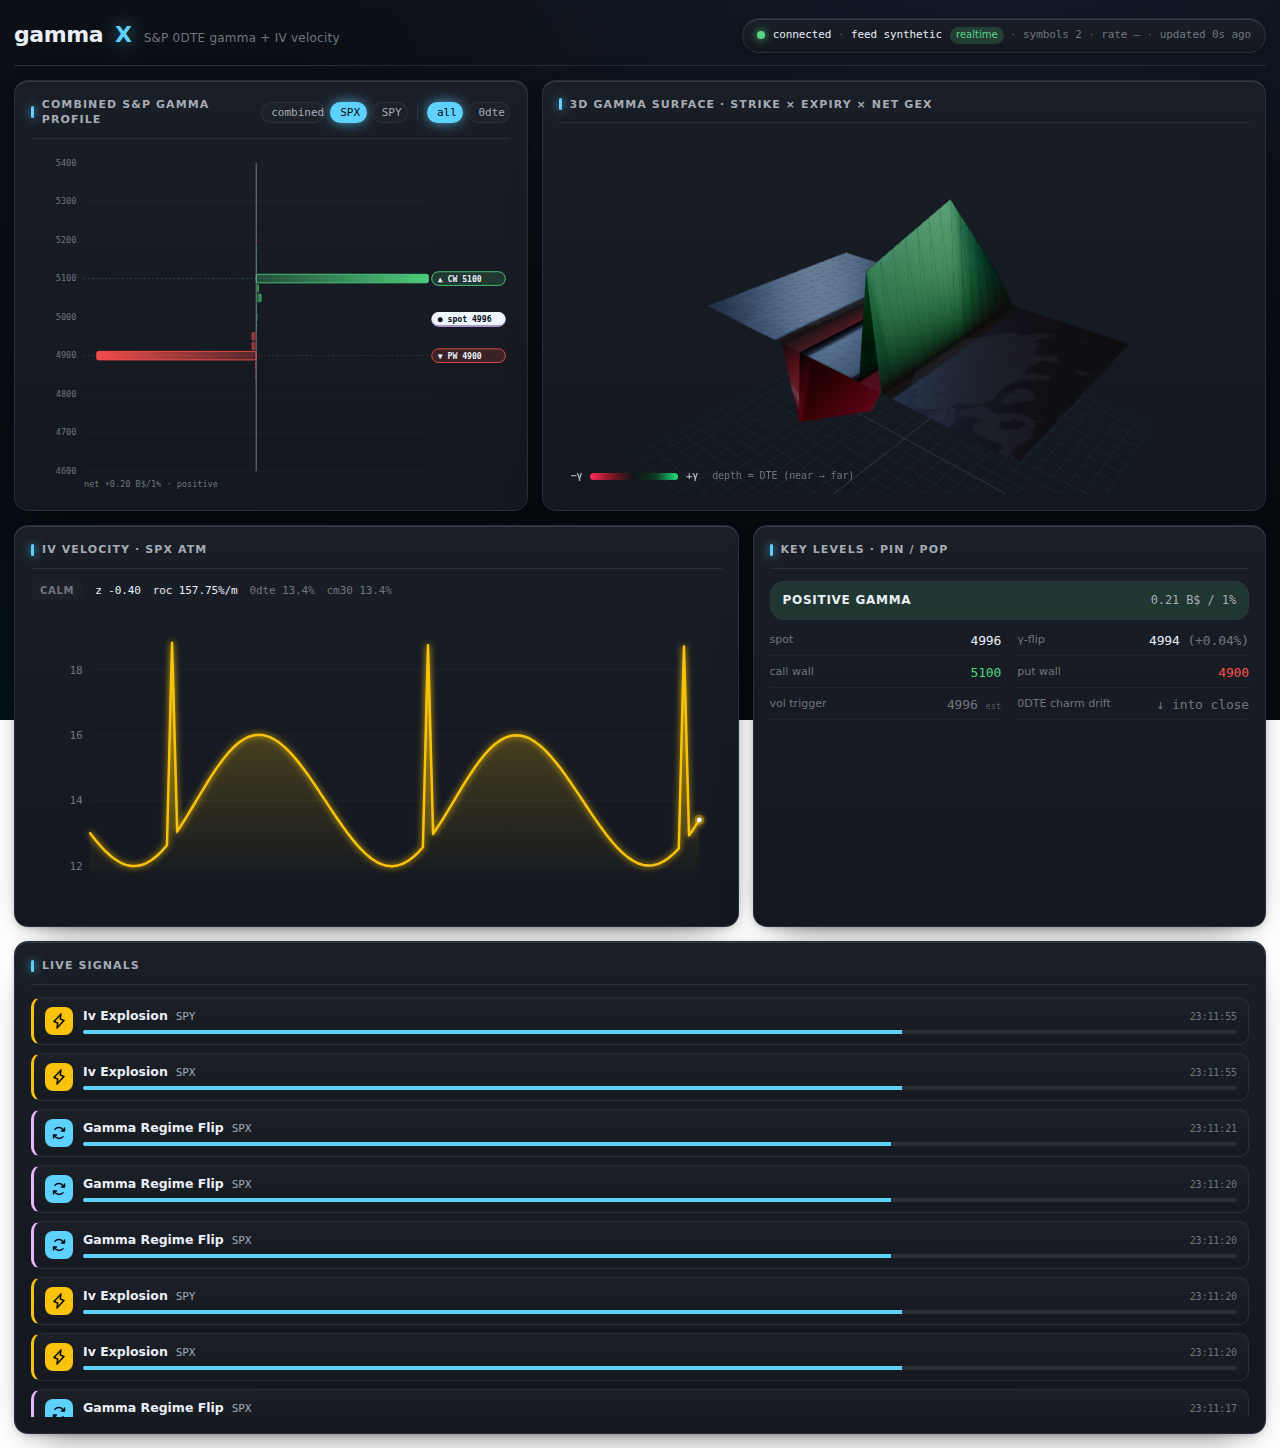
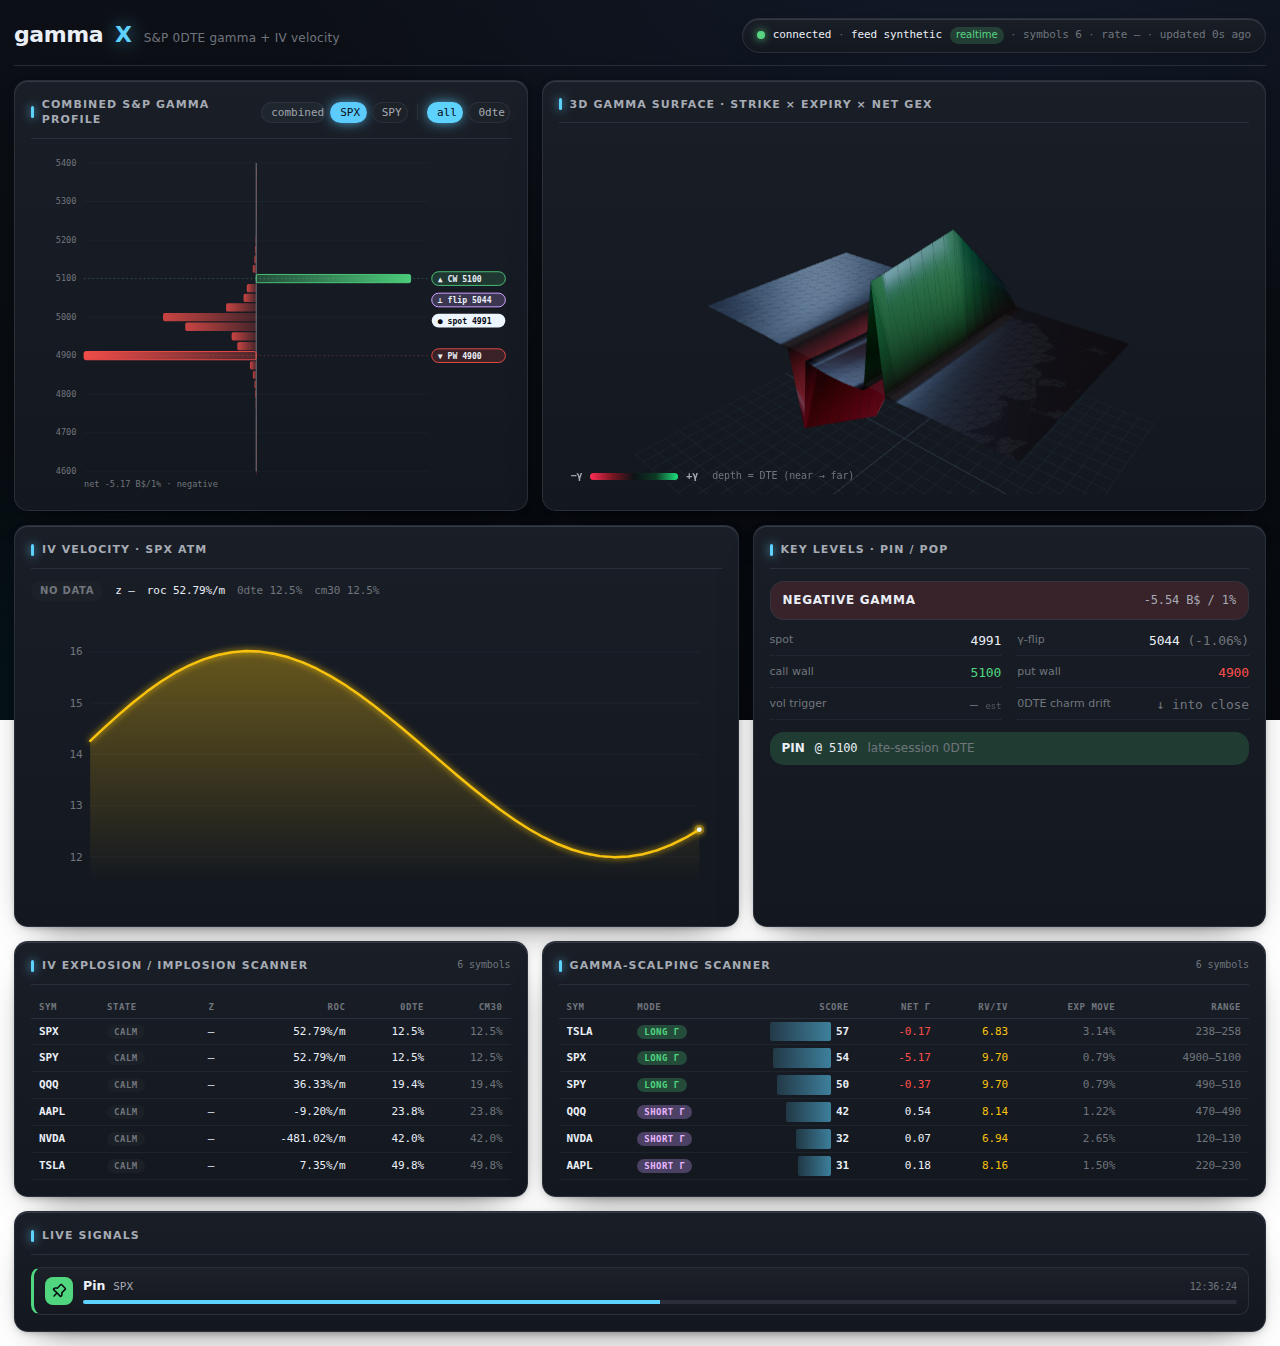
feat(web): IV explosion/implosion + gamma-scalping scanner panels
Two new dashboard panels ranking the watchlist off the engine WS:
- IvScanner: per-symbol IV velocity (z-score, ROC, 0DTE/CM30 IV) with
  explosion/implosion/calm badges.
- GammaScalpScanner: per-symbol scalp mode (long γ / short γ / neutral) with a
  score bar, net dealer gamma, realized-vs-implied ratio, expected move, and the
  wall range.

Wired into the store (iv_scan / gamma_scalp messages) and the page grid. e2e
asserts both scanner tables populate; verified on a 6-ticker synthetic watchlist
(SPX/SPY/QQQ/AAPL/NVDA/TSLA) — long-gamma vs short-gamma split matches each
ticker's dealer-gamma regime. svelte-autofixer clean; pnpm check green on Node 24.

Claude-Session: https://claude.ai/code/session_01EZJQeQHB2Ef85NUzpusLn4

diff --git a/apps/web/src/lib/components/GammaScalpScanner.svelte b/apps/web/src/lib/components/GammaScalpScanner.svelte
@@ -1,0 +1,152 @@
+<script lang="ts">
+	import type { GammaScalpMode, GammaScalpScannerState } from '@gammax/contracts';
+
+	let { scan }: { scan: GammaScalpScannerState | null } = $props();
+
+	const rows = $derived(scan?.rows ?? []);
+
+	const MODE_LABEL: Record<GammaScalpMode, string> = {
+		long_gamma: 'long γ',
+		short_gamma: 'short γ',
+		neutral: '—'
+	};
+
+	function bn(v: number): string {
+		return `${(v / 1e9).toFixed(2)}`;
+	}
+	function ratio(v: number | null): string {
+		return v == null ? '—' : v.toFixed(2);
+	}
+	function pct(v: number | null): string {
+		return v == null ? '—' : `${v.toFixed(2)}%`;
+	}
+	function range(lo: number | null, hi: number | null): string {
+		return lo == null || hi == null ? '—' : `${lo.toFixed(0)}–${hi.toFixed(0)}`;
+	}
+</script>
+
+<div class="scanner">
+	{#if rows.length === 0}
+		<p class="empty">scoring gamma-scalp conditions…</p>
+	{:else}
+		<table class="mono">
+			<thead>
+				<tr>
+					<th>sym</th>
+					<th>mode</th>
+					<th class="r">score</th>
+					<th class="r">net γ</th>
+					<th class="r">rv/iv</th>
+					<th class="r">exp move</th>
+					<th class="r">range</th>
+				</tr>
+			</thead>
+			<tbody>
+				{#each rows as r (r.symbol)}
+					<tr>
+						<td class="sym">{r.symbol}</td>
+						<td><span class="badge {r.mode}">{MODE_LABEL[r.mode]}</span></td>
+						<td class="r score">
+							<span class="bar" style="--w:{r.score}%"></span>
+							<span class="val">{r.score}</span>
+						</td>
+						<td class="r" class:neg={r.netGex < 0}>{bn(r.netGex)}</td>
+						<td class="r" class:hot={(r.rvIvRatio ?? 0) > 1}>{ratio(r.rvIvRatio)}</td>
+						<td class="r dim">{pct(r.expectedMovePct)}</td>
+						<td class="r dim">{range(r.rangeLow, r.rangeHigh)}</td>
+					</tr>
+				{/each}
+			</tbody>
+		</table>
+	{/if}
+</div>
+
+<style>
+	.scanner {
+		inline-size: 100%;
+		overflow-x: auto;
+	}
+	table {
+		inline-size: 100%;
+		border-collapse: collapse;
+		font-size: 11px;
+	}
+	th {
+		text-align: left;
+		font-weight: 600;
+		color: var(--ink-faint);
+		text-transform: uppercase;
+		letter-spacing: 0.06em;
+		font-size: 9px;
+		padding: 4px 8px;
+		border-block-end: 1px solid var(--border);
+	}
+	td {
+		padding: 5px 8px;
+		border-block-end: 1px solid color-mix(in oklch, var(--border), transparent 50%);
+	}
+	.r {
+		text-align: right;
+	}
+	.sym {
+		font-weight: 700;
+		color: var(--ink);
+	}
+	.dim {
+		color: var(--ink-faint);
+	}
+	.neg {
+		color: var(--put);
+	}
+	.hot {
+		color: var(--warn);
+	}
+	.score {
+		position: relative;
+		min-inline-size: 64px;
+	}
+	.score .bar {
+		position: absolute;
+		inset-block: 3px;
+		inset-inline-end: 26px;
+		inline-size: var(--w);
+		max-inline-size: calc(100% - 28px);
+		background: linear-gradient(
+			90deg,
+			color-mix(in oklch, var(--accent), transparent 70%),
+			var(--accent)
+		);
+		border-radius: 2px;
+		opacity: 0.55;
+	}
+	.score .val {
+		position: relative;
+		font-weight: 700;
+	}
+	.badge {
+		text-transform: uppercase;
+		letter-spacing: 0.05em;
+		font-size: 9px;
+		font-weight: 700;
+		padding-block: 2px;
+		padding-inline: 7px;
+		border-radius: 999px;
+	}
+	.badge.long_gamma {
+		background: color-mix(in oklch, var(--call), transparent 74%);
+		color: var(--call);
+	}
+	.badge.short_gamma {
+		background: color-mix(in oklch, var(--flip), transparent 74%);
+		color: var(--flip);
+	}
+	.badge.neutral {
+		background: oklch(0.26 0.014 262 / 0.6);
+		color: var(--ink-faint);
+	}
+	.empty {
+		color: var(--ink-faint);
+		padding-block: 28px;
+		text-align: center;
+	}
+</style>

diff --git a/apps/web/src/lib/components/IvScanner.svelte b/apps/web/src/lib/components/IvScanner.svelte
@@ -1,0 +1,115 @@
+<script lang="ts">
+	import type { IvScannerState } from '@gammax/contracts';
+
+	let { scan }: { scan: IvScannerState | null } = $props();
+
+	const rows = $derived(scan?.rows ?? []);
+
+	function pct(v: number | null): string {
+		return v == null ? '—' : `${(v * 100).toFixed(1)}%`;
+	}
+	function num(v: number | null, dp = 2): string {
+		return v == null ? '—' : v.toFixed(dp);
+	}
+</script>
+
+<div class="scanner">
+	{#if rows.length === 0}
+		<p class="empty">collecting IV velocity…</p>
+	{:else}
+		<table class="mono">
+			<thead>
+				<tr>
+					<th>sym</th>
+					<th>state</th>
+					<th class="r">z</th>
+					<th class="r">roc</th>
+					<th class="r">0dte</th>
+					<th class="r">cm30</th>
+				</tr>
+			</thead>
+			<tbody>
+				{#each rows as r (r.symbol)}
+					<tr>
+						<td class="sym">{r.symbol}</td>
+						<td><span class="badge {r.state}">{r.state}</span></td>
+						<td class="r z" class:up={(r.zScore ?? 0) > 0} class:down={(r.zScore ?? 0) < 0}>
+							{num(r.zScore)}
+						</td>
+						<td class="r">{r.rocPctPerMin == null ? '—' : `${num(r.rocPctPerMin)}%/m`}</td>
+						<td class="r">{pct(r.atmIv0dte)}</td>
+						<td class="r dim">{pct(r.atmIvCm30)}</td>
+					</tr>
+				{/each}
+			</tbody>
+		</table>
+	{/if}
+</div>
+
+<style>
+	.scanner {
+		inline-size: 100%;
+		overflow-x: auto;
+	}
+	table {
+		inline-size: 100%;
+		border-collapse: collapse;
+		font-size: 11px;
+	}
+	th {
+		text-align: left;
+		font-weight: 600;
+		color: var(--ink-faint);
+		text-transform: uppercase;
+		letter-spacing: 0.06em;
+		font-size: 9px;
+		padding: 4px 8px;
+		border-block-end: 1px solid var(--border);
+	}
+	td {
+		padding: 5px 8px;
+		border-block-end: 1px solid color-mix(in oklch, var(--border), transparent 50%);
+	}
+	.r {
+		text-align: right;
+	}
+	.sym {
+		font-weight: 700;
+		color: var(--ink);
+	}
+	.dim {
+		color: var(--ink-faint);
+	}
+	.z.up {
+		color: var(--warn);
+	}
+	.z.down {
+		color: var(--accent);
+	}
+	.badge {
+		text-transform: uppercase;
+		letter-spacing: 0.06em;
+		font-size: 9px;
+		font-weight: 700;
+		padding-block: 2px;
+		padding-inline: 7px;
+		border-radius: 999px;
+	}
+	.badge.explosion {
+		background: color-mix(in oklch, var(--warn), transparent 74%);
+		color: var(--warn);
+	}
+	.badge.implosion {
+		background: color-mix(in oklch, var(--accent), transparent 74%);
+		color: var(--accent);
+	}
+	.badge.calm {
+		background: oklch(0.26 0.014 262 / 0.6);
+		color: var(--ink-faint);
+	}
+	.empty {
+		color: var(--ink-faint);
+		padding-block: 28px;
+		text-align: center;
+	}
+</style>

diff --git a/apps/web/src/routes/+page.svelte b/apps/web/src/routes/+page.svelte
@@ -2,8 +2,10 @@
 	import { env } from '$env/dynamic/public';
 	import type { ExpiryScope, SurfaceScope } from '@gammax/contracts';
 	import GammaProfile from '$lib/components/GammaProfile.svelte';
+	import GammaScalpScanner from '$lib/components/GammaScalpScanner.svelte';
 	import GammaSurface3D from '$lib/components/GammaSurface3D.svelte';
 	import HealthBar from '$lib/components/HealthBar.svelte';
+	import IvScanner from '$lib/components/IvScanner.svelte';
 	import IvVelocity from '$lib/components/IvVelocity.svelte';
 	import KeyLevels from '$lib/components/KeyLevels.svelte';
 	import SignalFeed from '$lib/components/SignalFeed.svelte';
@@ -75,6 +77,22 @@
 			<KeyLevels surface={combinedAll} surface0={combined0} pinpop={lastPinPop} />
 		</section>
 
+		<section class="panel ivscan">
+			<header>
+				<h2>IV explosion / implosion scanner</h2>
+				<span class="count mono">{store.ivScan?.rows.length ?? 0} symbols</span>
+			</header>
+			<IvScanner scan={store.ivScan} />
+		</section>
+
+		<section class="panel scalp">
+			<header>
+				<h2>gamma-scalping scanner</h2>
+				<span class="count mono">{store.gammaScalp?.rows.length ?? 0} symbols</span>
+			</header>
+			<GammaScalpScanner scan={store.gammaScalp} />
+		</section>
+
 		<section class="panel feed">
 			<header><h2>live signals</h2></header>
 			<SignalFeed signals={store.signals} outcomes={store.outcomes} />
@@ -137,8 +155,18 @@
 	.levels {
 		grid-column: span 5;
 	}
+	.ivscan {
+		grid-column: span 5;
+	}
+	.scalp {
+		grid-column: span 7;
+	}
 	.feed {
 		grid-column: span 12;
+	}
+	.count {
+		font-size: 10px;
+		color: var(--ink-faint);
 	}
 	.toggles {
 		display: flex;

diff --git a/apps/web/e2e/dashboard.e2e.ts b/apps/web/e2e/dashboard.e2e.ts
@@ -21,5 +21,9 @@ test('dashboard renders live panels off the engine WS', async ({ page }) => {
 	await page.getByRole('button', { name: 'SPX', exact: true }).click();
 	await expect.poll(async () => page.locator('.profile rect').count()).toBeGreaterThan(0);
 
+	// Both scanners populate from the watchlist.
+	await expect.poll(async () => page.locator('.ivscan tbody tr').count()).toBeGreaterThan(1);
+	await expect.poll(async () => page.locator('.scalp tbody tr').count()).toBeGreaterThan(1);
+
 	await page.screenshot({ path: 'e2e-dashboard.png', fullPage: true });
 });
